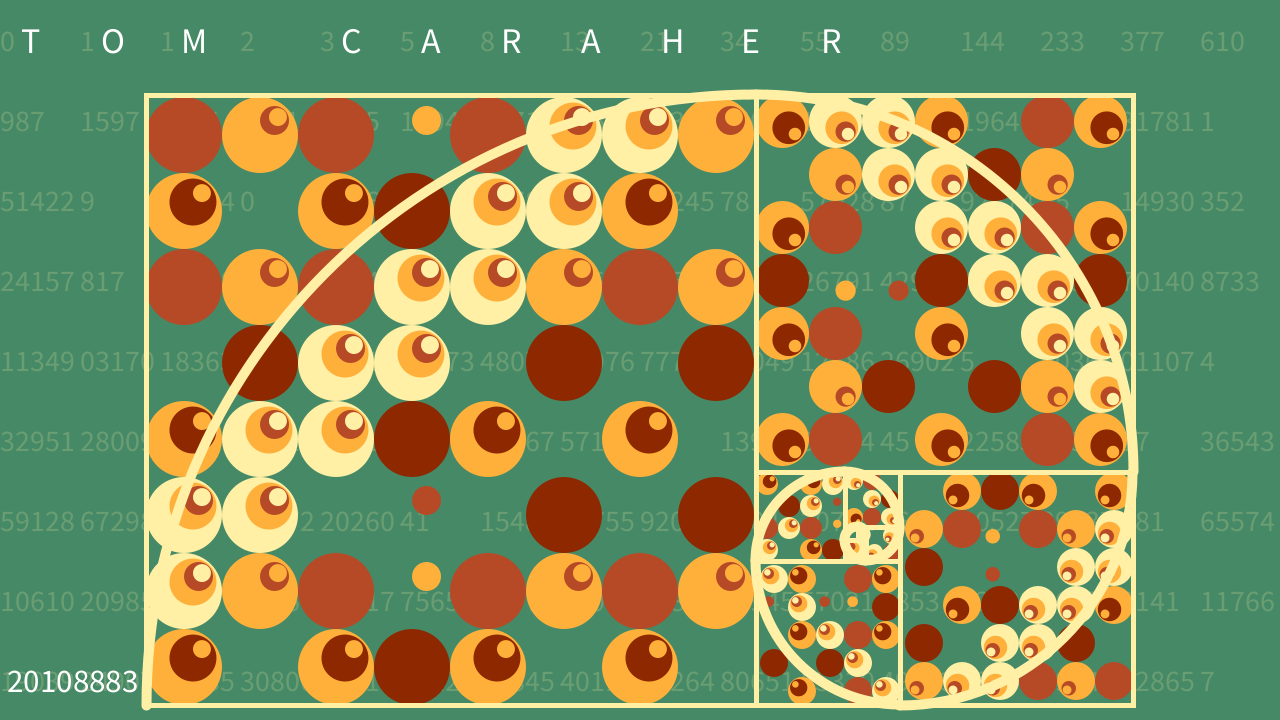
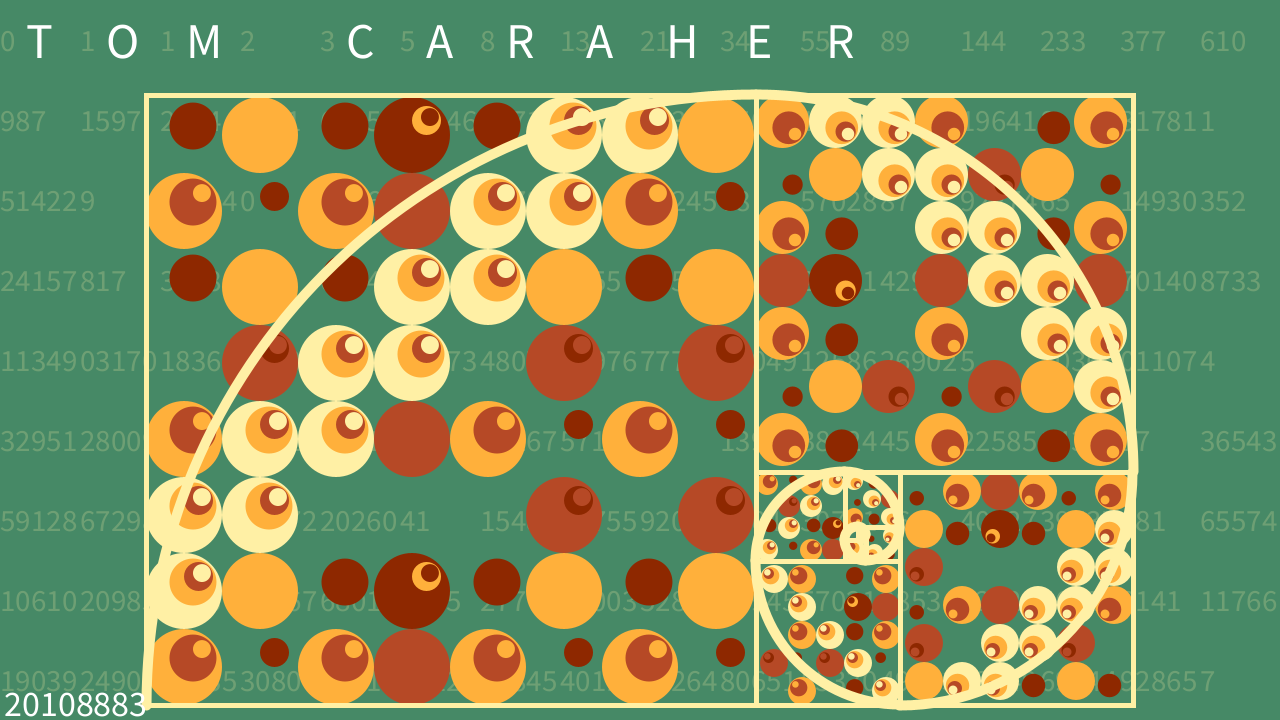
Took out casting from long to string, replaced with full fibonacci number string to work with, due to not seeing a project constraint until last minute.

diff --git a/out/source/generative_art.java b/out/source/generative_art.java
@@ -1,4 +1,4 @@
-/* autogenerated by Processing revision 1293 on 2024-02-17 */
+/* autogenerated by Processing revision 1293 on 2024-02-18 */
 import processing.core.*;
 import processing.data.*;
 import processing.event.*;
@@ -21,7 +21,6 @@ This is a generative art piece entitled, "Pingala".
 It is entirely based on the Fibonacci sequece and dedicated to Pingala,
 who was the first to describe (in around 200 BC) what is now known as 
 the Fibonacci sequence,which was named after Leonardo of Pisa (Fibonacci).
-
 Every grid,layout and element is devised by or directly related to the sequence in some way.
 */
 
@@ -29,6 +28,7 @@ String Name = "Tom Caraher";
 String studentNumber = "20108883";
 
 String Title = "Pingala";
+String fibonacciNumbers = "0 1 1 2 3 5 8 13 21 34 55 89 144 233 377 610 987 1597 2584 4181 6765 10946 17711 28657 46368 75025 121393 196418 317811 514229 832040 1346269 2178309 3524578 5702887 9227465 14930352 24157817 39088169 63245986 102334155 165580141 267914296 433494437 701408733 1134903170 1836311903 2971215073 4807526976 7778742049 12586269025 20365011074 32951280099 53316291173 86267571272 139583862445 225851433717 365435296162 591286729879 956722026041 1548008755920 2504730781961 4052739537881 6557470319842 10610209857723 17167680177565 27777890035288 44945570212853 72723460248141 117669030460994 190392490709135 308061521170129 498454011879264 806515533049393 1304969544928657 ";
 
 // Constants
 float goldenRatio = 1.61803398875f;
@@ -140,10 +140,10 @@ public void draw() {
     //Work down to smallest fibonacci numbers
     startingFibNum --;
   }
-
   // Reposition canvas with translate to draw name etc in correct locations
-  translate(840, 580);
-  rotate(radians( 180));
+  translate(835, 580);
+  rotate(radians(180));
+  // Calls custom method to display my id information - name and student number
   displayInfo();
 }
 
@@ -186,34 +186,34 @@ public void mouseWheel(MouseEvent event) {
 /*
  Write fibonacci numbers as part of backing grid.
  Each number overflows into the next cell as it grows.
- Calls a separate function returning a Long, as I ran out of int digits
+ Uses a hard coded string unfortunately, due to project constraints regarding casting. 
  */
 
 public void drawFibonacciNumberGrid() {
-  int longFibPosition = 0;
   fill(c5Red, c5Green, c5Blue, fibNumVisibility);
-  textSize(30);
+  textSize(31);
   textAlign(LEFT, CENTER);
+  String newFibNumbers = fibonacciNumbers;
 
   // Iterate over 16:9 grid, putting a fib number in each.
   // When the number grows too large for font size, split it and place in next cell
   for (int fibStringRowNum = 0; fibStringRowNum < rows; fibStringRowNum ++) {
     for (int fibStringElementNum = 0; fibStringElementNum < columns; fibStringElementNum ++) {
-
-      // str() processing method does not seem to work properly converting a long. bug? Possibly my error
-      String fibString = String.valueOf(longFibNum(longFibPosition));
       int maxCharNum = 5;
-
-      // Checks for fib number(in string format) above the max char amount for that font size(5)
-      if (fibString.length() >= maxCharNum) {
+      // Iterates over the string of fibonacci numbers to find the spaces separating each number and updating to the new string.
+      int fibonacciSpaceIndex = newFibNumbers.indexOf(" ");
+      String fibonacciSplit = newFibNumbers.substring(0,fibonacciSpaceIndex);
+      newFibNumbers = newFibNumbers.substring(fibonacciSpaceIndex+1);
+      // Checks for fib number(in string format) above the max char amount for my chosen font size(5) - hard coded unfortunately
+      if (fibonacciSplit.length() >= maxCharNum) {
         int index = 0;
-        int fibStringLength = fibString.length();
+        int fibStringLength = fibonacciSplit.length();
 
         // Splits and draws first part of number
-        String subFibString = fibString.substring(index, maxCharNum);
-        text(subFibString, fibStringElementNum * 80, fibStringRowNum * 80, 80, 80);
+        String subFibString = fibonacciSplit.substring(index, maxCharNum);
+        text(subFibString, fibStringElementNum * (width/columns) , fibStringRowNum * (height/rows), (width/columns), (height/rows));
 
-        fibStringLength = fibString.length() - maxCharNum;
+        fibStringLength = fibonacciSplit.length() - maxCharNum;
 
         // for rest of the number, iterate and draw the new strings
         while (fibStringLength > 0) {
@@ -221,20 +221,20 @@ public void drawFibonacciNumberGrid() {
 
           // Checks if we're on the last part of the string, and applies correct .substring param, or continues
           if (fibStringLength < maxCharNum) {
-            subFibString = fibString.substring(index);
+            subFibString = fibonacciSplit.substring(index);
           } else {
-            subFibString = fibString.substring(index, index + maxCharNum);
+            subFibString = fibonacciSplit.substring(index, index + maxCharNum);
           }
 
           fibStringElementNum ++;
           fibStringLength -= maxCharNum;
 
-          text(subFibString, fibStringElementNum * 80, fibStringRowNum * 80, 80, 80);
+          text(subFibString, fibStringElementNum * (width/columns) , fibStringRowNum * (height/rows), (width/columns), (height/rows));
         }
       } else {
-        text(fibString, fibStringElementNum * 80, fibStringRowNum * 80, 80, 80);
+        text(fibonacciSplit, fibStringElementNum * (width/columns) , fibStringRowNum * (height/rows), (width/columns), (height/rows));
       }
-      longFibPosition++;
+
     }
   }
 }
@@ -355,34 +355,17 @@ public int fibonacciHelper(int prev, int current, int fibPosition) {
   return fibonacciHelper(current, prev + current, fibPosition - 1);
 }
 
-// Separated long version of above method. I only use this for the fib number grid displaying each number, as it goes far beyond the int limit.
-// (in fact I hit the long limit as well without some optimization!)
-// More efficient to use the int version in the majority of the code as it takes less bytes and its more than enough.
-public long longFibNum(int fibPosition) {
-  if (fibPosition <= 1) {
-    return fibPosition;
-  }
-  return longFibonacciHelper(0, 1, fibPosition - 1);
-}
-
-public long longFibonacciHelper(long prev, long current, long fibPosition) {
-  if (fibPosition ==  0) {
-    return current;
-  }
-  return longFibonacciHelper(current, prev + current, fibPosition - 1);
-}
-
 // Displays name and student number
 public void displayInfo() {
   fill(255);
-  textSize(36);
+  textSize(50);
   textAlign(LEFT, CENTER);
   String upperCaseName = Name.toUpperCase();
   for (int i = 0; i < Name.length(); i++) {
     text(upperCaseName.charAt(i), i * (width / columns), (height / rows));
   }
-  textSize(33);
-  text(studentNumber, -15, (height/rows)*rows);
+  textSize(36);
+  text(studentNumber, -23, (height/rows)*rows+23);
 }
 
 
